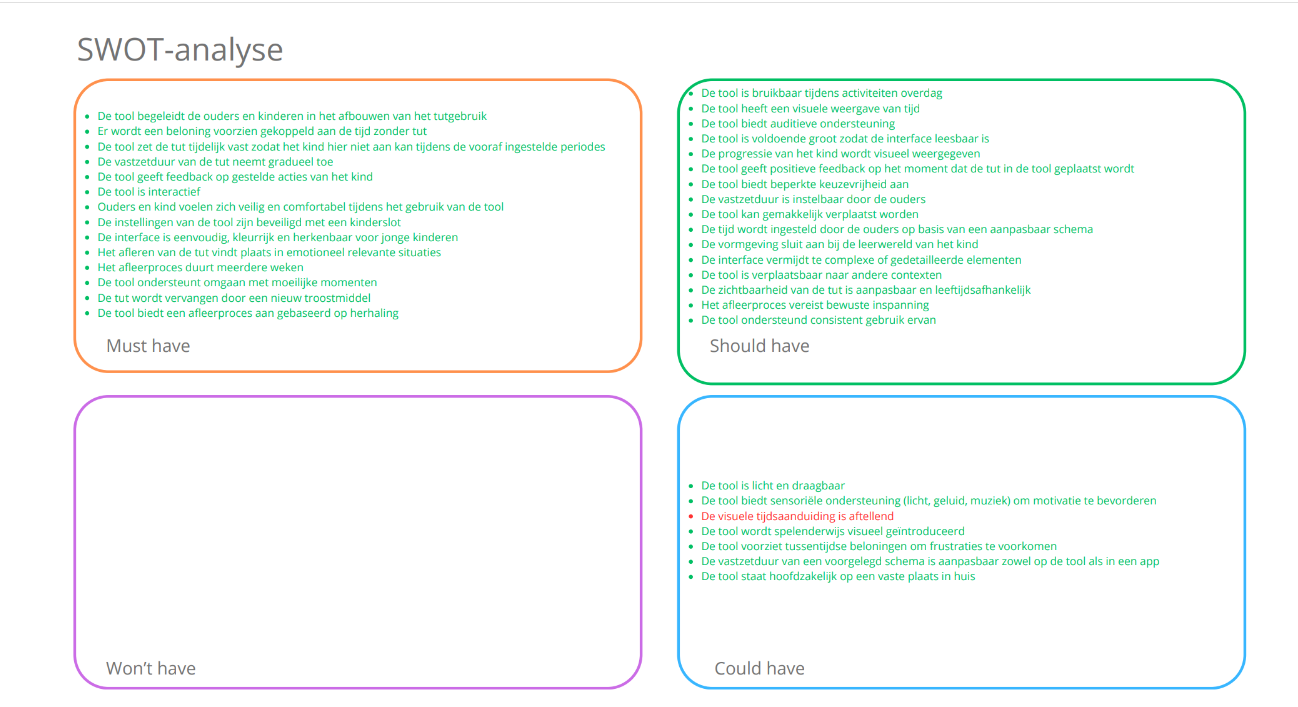
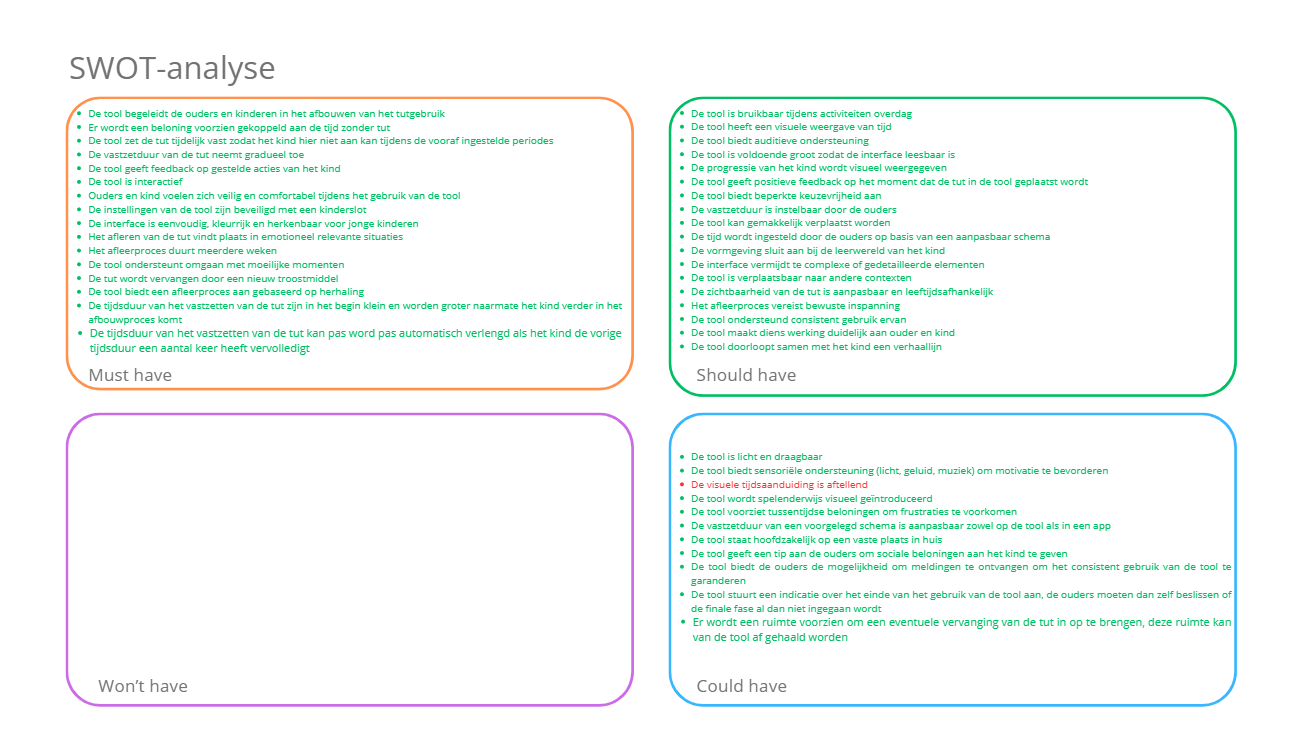
aanvulling design requirements

Changed region(s): [[0.0308, 0.0311, 0.9553, 0.9958]]

diff --git a/docs/design_requirements.md b/docs/design_requirements.md
@@ -27,7 +27,7 @@ Functional requirements:
 |1.21|De tool maakt diens werking duidelijk aan ouder en kind|[Interview rapport Develop 1](<../reports and protocols/Interview_rapport_Wave 3_expert interviews.pdf>)|✅|
 |1.22|De tool geeft een tip aan de ouders om sociale beloningen aan het kind te geven|[Interview rapport develop 1 ](<../reports and protocols/Interview_rapport_Wave 3_expert interviews.pdf>)|✅|
 |1.23|De tijdsduur van het vastzetten van de tut zijn in het begin klein en worden groter naarmate het kind verder in het afbouwproces komt|[Interview rapport develop 1 ](<../reports and protocols/Interview_rapport_Wave 3_expert interviews.pdf>)|✅|
-|1.24|De tijdsduur van het vastzetten van de tut kan pas word pas automatisch verlengd als het kind de vorige tijdsduur een aantal keer heeft vervoledigd|[Interview rapport develop 1 ](<../reports and protocols/Interview_rapport_Wave 3_expert interviews.pdf>)|✅|
+|1.24|De tijdsduur van het vastzetten van de tut kan pas word pas automatisch verlengd als het kind de vorige tijdsduur een aantal keer heeft vervolledigt|[Interview rapport develop 1 ](<../reports and protocols/Interview_rapport_Wave 3_expert interviews.pdf>)|✅|
 |1.25|De tool biedt de ouders de mogelijkheid om meldingen te ontvangen om het consistent gebruik van de tool te garanderen|[Interview rapport develop 1 ](<../reports and protocols/Interview_rapport_Wave 3_expert interviews.pdf>)|✅|
 Usability requirements:
 |2.1|Ouders en kind voelen zich veilig en comfortabel tijdens het gebruik van de tool |[Definition](definition.md)|✅|
@@ -43,7 +43,7 @@ Vormgeving requirements:
 |3.1|De interface is eenvoudig, kleurrijk en herkenbaar voor jonge kinderen |[Interview rapport WAVE 3](<../reports and protocols/Interview_rapport_Wave 3_expert interviews.pdf>)|✅|
 |3.2|De vormgeving sluit aan bij de leerwereld van het kind|[Interview rapport WAVE 3](<../reports and protocols/Interview_rapport_Wave 3_expert interviews.pdf>)|✅|
 |3.3|De interface vermijdt te complexe of gedetailleerde elementen|[Interview rapport WAVE 3](<../reports and protocols/Interview_rapport_Wave 3_expert interviews.pdf>)|✅|
-|3.4|Er wordt een ruimte voorzienbom een eventuele vervanging van de tut in op te brengen, deze ruimte kan van de tool af gehaald worden|[Interview rapport develop 1 ](<../reports and protocols/Interview_rapport_Wave 3_expert interviews.pdf>)|✅|
+|3.4|Er wordt een ruimte voorzien om een eventuele vervanging van de tut in op te brengen, deze ruimte kan van de tool af gehaald worden|[Interview rapport develop 1 ](<../reports and protocols/Interview_rapport_Wave 3_expert interviews.pdf>)|✅|
 Context requirements:
 |4.1|Het afleren van de tut vindt plaats in emotioneel relevante situaties |[Interview rapport WAVE 1](<../reports and protocols/Interview_rapport_Wave 1.pdf>)|✅|
 |4.2|De tool is verplaatsbaar naar andere contexten|[Interview rapport WAVE 2](<../reports and protocols/Interview_rapport_Wave 2.pdf>)|✅|
